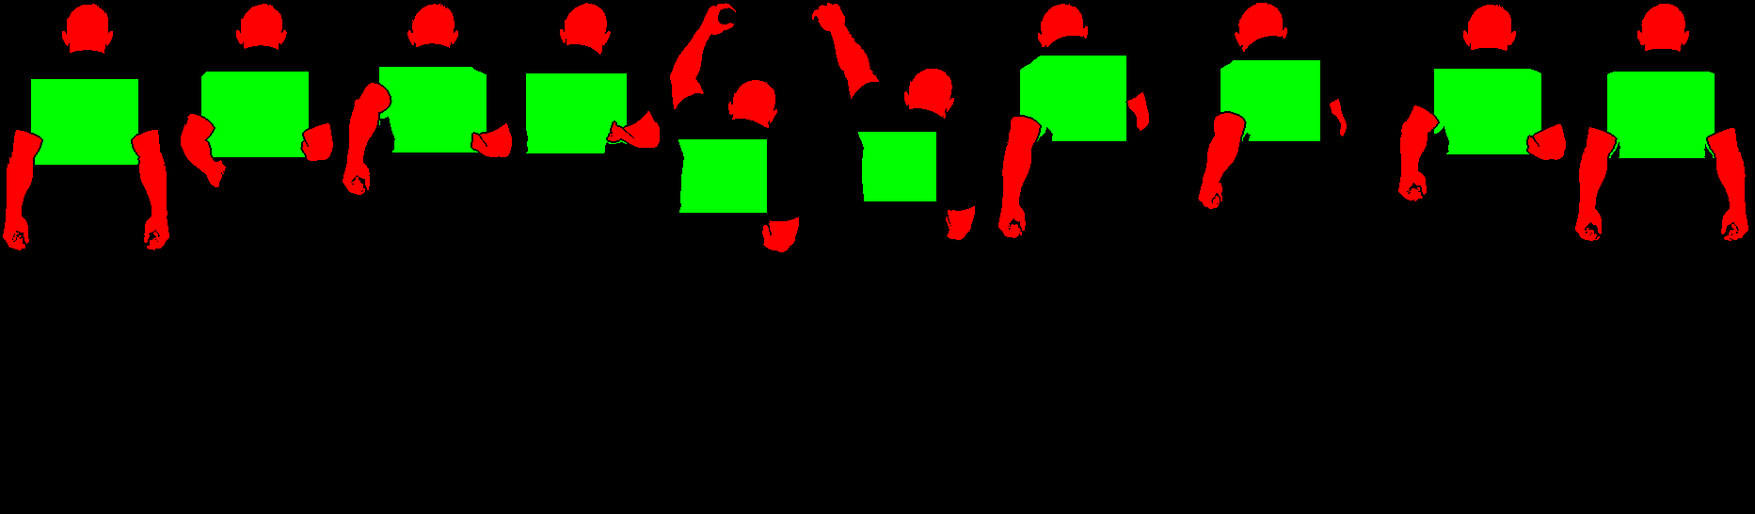
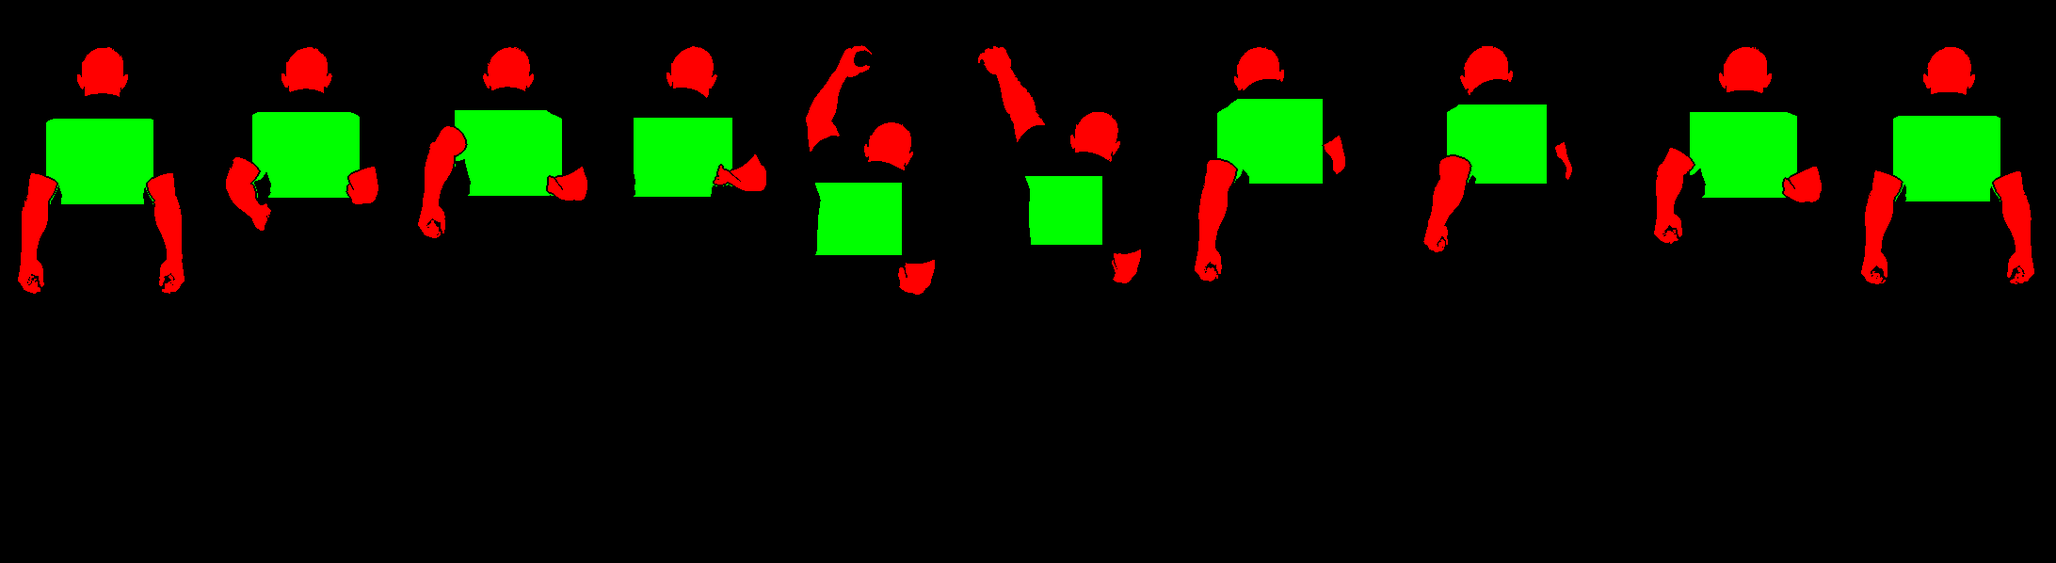
Pink Royals bowlers from behind: hair back on (the Thunder hairstyles carried onto the Royals poses), softer edges from the transparent sheet
The Royals sheet is the Thunder back sheet's poses redrawn in their kit, so each Thunder hair layer is scaled and shifted onto
the matching pose's head (ALIGN in tools/build_royals_back.py, head areas overlap 88-99%); every pose has room round it for
hair that stands up or hangs. The source is now the transparent version of the sheet. Test extended for the hair layers.

Claude-Session: https://claude.ai/code/session_01NK7tbrKg5PdA6fuyEUPXLd

Changed region(s): [[0.0, 0.0, 0.6531, 0.5293], [0.6842, 0.0, 0.9952, 0.4982]]

diff --git a/js/kitsheets.js b/js/kitsheets.js
@@ -2,4 +2,4 @@
 // [x, y, w, h, feet x, feet y] in sheet order; place: the crest (front: [x, y, size, squash x,
 // squash y, tilt]) or the name-and-number print (back: [x, y, width, squash x, squash y, tilt,
 // name dx, dy, number dx, dy]) per frame; shading references for the repaint.
-export const KIT_SHEETS = {"front":{"frames":[[4,4,227,609,115.7,602],[235,4,204,603,108.5,596],[443,4,232,595,100.6,588],[679,4,181,601,90.4,594],[4,617,184,670,98.7,663],[192,617,204,657,107.8,650],[400,617,234,531,161.4,524],[638,617,200,532,104.9,525],[4,1291,201,557,90.7,550],[209,1291,216,579,105.9,572]],"place":[[153,167,36,1,1,0],[377,154,35,1,1,0],[591,154,35,1,1,0],[795,159,32,0.9,1,0],[142,863,31,0.95,1,5],[363,868,31,0.95,1,5],[549,761,34,1,0.85,0],[754,762,31,0.95,0.85,-5],[148,1439,35,1,1,0],[359,1454,36,1,1,0]],"refPx":580,"suit":[0.0376,0.2954,0.587],"trim":[0.5314,0.8456,0.9029],"skin":0.7306,"tones":[0.2955,0.2955,0.8423],"hair":{"beard_full":0.2269,"beard_goatee":0.1998,"beard_long":0.1906,"bun":0.2773,"buzz":0.2963,"cap":0.2815,"curly":0.2799,"dreads":0.2727,"long":0.2593,"messy":0.2999,"part":0.3383,"ponytail":0.2813,"spiky":0.2762},"size":[1024,1874]},"back":{"frames":[[4,4,223,593,111.2,586],[231,4,203,585,111.9,578],[438,4,226,585,125.1,578],[668,4,184,572,61.0,565],[4,601,172,628,61.9,621],[180,601,213,636,106.9,629],[397,601,240,538,146.8,531],[641,601,234,534,104.0,527],[4,1241,213,572,115.0,565],[221,1241,215,586,107.6,579]],"place":[[116.6,158.1,88.0,1.0,1.0,0.4,0,0,0,0],[343.2,149.0,88.0,1.0,1.0,0.8,0,0,0,0],[558.0,148.9,88.0,1.0,1.0,0.0,0,0,0,0],[738,149.2,84.5,0.88,1.0,2,-4,0,-2,0],[95.9,814.9,81.0,0.85,0.95,15.1,0,0,0,0],[306.5,801.6,81.0,0.85,0.95,10.9,0,0,0,0],[502,714.2,86.2,1.0,0.75,-6,0,0,0,0],[741,714.7,86.2,1.0,0.75,-6,0,0,0,0],[117.6,1385.2,88.0,1.0,1.0,0.4,0,0,0,0],[331.2,1393.8,89.8,1.0,1.0,0.8,0,0,0,0]],"refPx":563,"suit":[0.032,0.3087,0.5514],"trim":[0.5231,0.8489,0.9123],"skin":0.7332,"tones":[0.3087,0.3087,0.8455],"hair":{"bun":0.2553,"buzz":0.2918,"cap":0.2709,"curly":0.2702,"dreads":0.2718,"long":0.2647,"messy":0.2757,"part":0.2824,"ponytail":0.2667,"spiky":0.2812},"size":[1024,1831]},"spin-front":{"frames":[[4,4,182,471,90.8,464],[190,4,175,474,103.6,467],[369,4,172,473,91.2,466],[545,4,173,483,87.0,476],[722,4,165,515,62.2,508],[4,523,164,565,80.0,558],[172,523,152,564,71.3,544],[328,523,165,547,53.2,528],[497,523,255,478,85.7,461],[756,523,173,413,62.2,400],[4,1092,264,385,95.9,378],[272,1092,180,405,108.1,398],[456,1092,144,425,76.3,418],[604,1092,179,431,74.7,424],[787,1092,192,438,94.7,431]],"place":[[133,134,26,1,1,0],[324,133,24,1,1,0],[503,130,24,1,1,0],[663,127,24,1,1,0],[848,180,24,1,1,0],[145,711,22,0.9,1,0],[268,717,21,0.9,1,0],[456,715,21,0.9,1,0],[646,705,20,0.9,0.9,10],[872,632,20,0.9,0.85,0],[118,1191,19,0.9,0.85,0],[368,1192,21,1,0.9,0],[524,1199,22,1,0.95,0],[728,1206,26,1,1,0],[918,1204,26,1,1,0]],"refPx":441,"suit":[0.0299,0.3355,0.4715],"trim":[0.548,0.8593,0.9122],"skin":0.7273,"tones":[0.341,0.154,0.8608],"hair":{"beard_full":0.1972,"beard_goatee":0.2001,"beard_long":0.2064,"bun":0.2433,"buzz":0.241,"cap":0.2898,"curly":0.2653,"dreads":0.2535,"long":0.2468,"messy":0.2721,"part":0.2843,"ponytail":0.2781,"spiky":0.2609},"size":[1024,1534]},"spin-back":{"frames":[[4,4,205,533,100.3,526],[213,4,201,526,110.7,519],[418,4,214,510,122.2,503],[636,4,168,520,54.4,513],[808,4,157,568,64.3,561],[4,576,174,536,56.4,529],[182,576,168,528,67.2,521],[354,576,165,520,59.7,498],[523,576,204,489,64.8,467],[731,576,195,427,99.9,420],[4,1116,270,378,98.4,371],[278,1116,189,392,97.5,385],[471,1116,207,396,98.1,389],[682,1116,185,397,98.2,390],[4,1517,193,401,95.6,394]],"place":[[110,150,72.0,1,1,0,0,0,0,0],[326,138,72.0,1,1,0,0,0,0,0],[539,138,72.0,0.95,1,0,0,0,0,0],[711,141,72.0,0.95,1,11,0,0,0,0],[894,208,72.0,0.95,1,5,0,0,0,0],[100,760,72.0,0.95,1,10,0,0,0,0],[266,753,72.0,0.95,1,10,0,0,0,0],[451,742,72.0,0.95,0.95,18,0,0,0,0],[637,718,72.0,0.95,0.8,20,0,0,0,0],[853,677,72.0,0.95,0.8,12,0,0,0,0],[115,1188,72.0,1,0.7,-6,0,0,0,0],[362,1201,72.0,1,0.75,-10,0,0,0,0],[558,1210,72.0,1,0.85,-6,0,0,0,0],[773,1218,72.0,1,1,0,0,0,0,0],[104,1643,72.0,1,1,0,0,0,0,0]],"refPx":502,"suit":[0.0255,0.3304,0.4621],"trim":[0.5425,0.8472,0.9129],"skin":0.735,"tones":[0.3359,0.1507,0.8497],"hair":{"bun":0.2768,"buzz":0.2522,"cap":0.3009,"curly":0.2524,"dreads":0.3474,"long":0.2919,"messy":0.2526,"part":0.2321,"ponytail":0.2864,"spiky":0.2346},"size":[1024,1922]},"bat-back":{"frames":[[4,4,248,534,127.4,527],[256,4,291,536,114.4,529],[551,4,247,535,126.7,528],[802,4,283,538,117.1,531],[1089,4,237,534,113.5,527],[1330,4,310,635,102.2,628],[4,643,438,523,123.2,516],[446,643,394,523,242.9,516],[844,643,398,524,207.5,517],[1246,643,243,468,91.2,461],[1493,643,229,458,81.5,451],[1726,643,197,456,73.9,449],[4,1171,213,517,108.2,510],[221,1171,264,515,121.3,508],[489,1171,381,501,205.5,494],[874,1171,329,471,80.2,464],[1207,1171,201,510,95.2,503],[1412,1171,161,645,75.2,638],[1577,1171,302,505,119.4,498],[4,1820,340,405,92.8,398],[348,1820,373,419,82.2,412],[725,1820,235,523,91.4,516],[964,1820,195,665,107.2,658],[1163,1820,336,523,170.4,516],[1503,1820,388,542,201.0,535],[4,2489,364,523,108.1,516]],"place":[[110.5,145,87.2,1,1,16.3,0,0,0,0],[366.5,144,89.6,1,1,21.6,0,0,0,0],[660.0,146,86.4,1,1,17.1,0,0,0,0],[905.0,148,87.2,1,1,18.6,0,0,0,0],[1199.0,145,88.0,1,1,19.2,0,0,0,0],[1473.0,237,91.2,1,1,14.7,0,0,0,0],[157.0,762,93.6,1,1,3.2,0,0,0,0],[761.5,781,94.4,1,1,10.1,0,0,0,0],[1171.0,781,90.4,1,1,9.6,0,0,0,0],[1355.0,760,84.0,1,1,1.5,0,0,0,0],[1592.0,760,91.2,1,1,-0.9,0,0,0,0],[1815.0,767,96.0,1,1,3.4,0,0,0,0],[122.5,1293,85.6,1,1,16.8,0,0,0,0],[324.5,1303,96.8,1,1,4.1,0,0,0,0],[597.0,1301,95.2,1,1,8.8,0,0,0,0],[972.5,1302,96.0,1,1,7.3,0,0,0,0],[1324.5,1307,92.0,1,1,6.0,0,0,0,0],[1483.5,1450,92.0,1,1,1.6,0,0,0,0],[1760.5,1408,87.2,1,1,6.1,0,0,0,0],[114.0,1958,103.2,1,1,6.5,0,0,0,0],[504.5,1956,94.4,1,1,-0.9,0,0,0,0],[824.5,1941,94.4,1,1,7.8,0,0,0,0],[1083.5,2081,88.0,1,1,9.2,0,0,0,0],[1261.5,1955,98.4,1,1,11.6,0,0,0,0],[1822.0,1972,83.2,1,1,11.6,0,0,0,0],[88.0,2611,92.0,1,1,0.4,0,0,0,0]],"refPx":522,"suit":[0.0269,0.3529,0.5925],"trim":[0.5451,0.8592,0.9209],"skin":0.6414,"tones":[0.3586,0.2,0.8608],"hair":{},"size":[2048,3016]},"field":{"frames":[[4,4,425,453,214.6,446],[433,4,376,459,180.8,452],[813,4,407,455,200.5,448],[1224,4,294,543,132.5,536],[1522,4,266,555,119.8,548],[4,563,282,545,146.0,538],[290,563,323,540,153.3,533],[617,563,416,478,255.7,471],[1037,563,399,471,239.2,464],[1440,563,416,479,226.6,472],[4,1112,498,472,240.3,465],[506,1112,334,461,194.5,454],[844,1112,389,467,201.6,460],[1237,1112,290,468,134.9,461],[1531,1112,237,468,118.4,461],[4,1588,331,343,227.7,336],[339,1588,473,278,360.6,271],[816,1588,480,172,199.7,165],[1300,1588,337,172,238.3,165],[4,1935,444,498,209.6,491],[452,1935,293,588,174.3,581],[749,1935,424,503,212.8,496],[1177,1935,325,396,172.6,389],[1506,1935,354,418,177.7,411],[4,2527,358,410,163.6,403],[366,2527,433,269,300.7,262],[803,2527,313,384,165.7,377],[1120,2527,314,393,165.6,386],[1438,2527,418,382,217.0,375],[4,2941,455,291,300.0,284],[463,2941,279,574,142.6,567],[746,2941,283,525,142.6,518],[1033,2941,330,573,155.7,566],[1367,2941,288,573,148.0,566],[1659,2941,234,574,118.0,567],[4,3519,232,571,109.8,564],[240,3519,219,572,103.9,565],[463,3519,236,568,117.4,561],[703,3519,228,575,111.3,568],[935,3519,240,570,118.5,563],[1179,3519,238,570,119.8,563],[1421,3519,223,572,107.1,565]],"place":[[10,10,0,1,1,0,0,0,0,0],[439,10,0,1,1,0,0,0,0,0],[1017.0,139,100.8,1,1,1.9,0,0,0,0],[1394.5,134,101.6,1,1,22.4,0,0,0,0],[1652.0,138,104.0,1,1,11.0,0,0,0,0],[174.0,696,97.6,1,1,7.0,0,0,0,0],[458.5,691,98.4,1,1,11.3,0,0,0,0],[623,569,0,1,1,0,0,0,0,0],[1043,569,0,1,1,0,0,0,0,0],[1446,569,0,1,1,0,0,0,0,0],[10,1118,0,1,1,0,0,0,0,0],[512,1118,0,1,1,0,0,0,0,0],[850,1117,0,1,1,0,0,0,0,0],[1405.0,1231,90.4,1,1,15.0,0,0,0,0],[1673.0,1223,85.6,1,1,3.9,0,0,0,0],[10,1594,0,1,1,0,0,0,0,0],[345,1594,0,1,1,0,0,0,0,0],[822,1594,0,1,1,0,0,0,0,0],[1306,1594,0,1,1,0,0,0,0,0],[10,1941,0,1,1,0,0,0,0,0],[458,1941,0,1,1,0,0,0,0,0],[755,1941,0,1,1,0,0,0,0,0],[1183,1941,0,1,1,0,0,0,0,0],[1512,1941,0,1,1,0,0,0,0,0],[10,2533,0,1,1,0,0,0,0,0],[372,2533,0,1,1,0,0,0,0,0],[973.5,2643,76.8,1,1,1.8,0,0,0,0],[1296.5,2644,77.6,1,1,8.0,0,0,0,0],[1690.0,2629,61.6,1,1,16.7,0,0,0,0],[10,2947,0,1,1,0,0,0,0,0],[469,2947,0,1,1,0,0,0,0,0],[752,2947,0,1,1,0,0,0,0,0],[1039,2947,0,1,1,0,0,0,0,0],[1373,2947,0,1,1,0,0,0,0,0],[1665,2947,0,1,1,0,0,0,0,0],[10,3525,0,1,1,0,0,0,0,0],[246,3525,0,1,1,0,0,0,0,0],[469,3525,0,1,1,0,0,0,0,0],[709,3525,0,1,1,0,0,0,0,0],[941,3525,0,1,1,0,0,0,0,0],[1185,3525,0,1,1,0,0,0,0,0],[1427,3525,0,1,1,0,0,0,0,0]],"refPx":441,"suit":[0.0644,0.3368,0.6113],"trim":[0.5563,0.8516,0.9209],"skin":0.7707,"tones":[0.3422,0.2038,0.8539],"hair":{},"size":[2048,4098]},"royals-back":{"frames":[[0,0,185,490,92.5,489],[189,0,168,481,93.5,480],[361,0,186,482,104.5,481],[551,0,153,472,53.0,471],[708,0,148,544,54.5,543],[860,0,194,546,96.5,545],[1058,0,208,459,128.0,458],[1270,0,209,466,90.5,465],[1483,0,184,455,98.0,454],[1671,0,190,457,92.0,456]],"place":[[90.3,129.7,76.0,1,1,0.0,0,0,0,0],[271.7,122.1,76.0,1,1,0.0,0,0,0,0],[460.7,116.6,76.0,1,1,0.0,0,0,0,0],[613.0,121.1,71.0,1,1,6.0,0,0,0,0],[766.7,187.4,65.0,1,1,-10.0,0,0,0,0],[949.6,177.5,61.5,1,1,-14.0,0,0,0,0],[1140.9,104.8,75.5,1,1,10.0,0,0,0,0],[1350.7,107.6,71.0,1,1,12.0,0,0,0,0],[1581.4,119.4,76.0,1,1,0.0,0,0,0,0],[1765.9,122.6,76.0,1,1,0.0,0,0,0,0]],"refPx":490,"suit":[0,0,0],"trim":[0,0,0],"skin":0.7271,"hair":{},"size":[1865,546]}};
+export const KIT_SHEETS = {"front":{"frames":[[4,4,227,609,115.7,602],[235,4,204,603,108.5,596],[443,4,232,595,100.6,588],[679,4,181,601,90.4,594],[4,617,184,670,98.7,663],[192,617,204,657,107.8,650],[400,617,234,531,161.4,524],[638,617,200,532,104.9,525],[4,1291,201,557,90.7,550],[209,1291,216,579,105.9,572]],"place":[[153,167,36,1,1,0],[377,154,35,1,1,0],[591,154,35,1,1,0],[795,159,32,0.9,1,0],[142,863,31,0.95,1,5],[363,868,31,0.95,1,5],[549,761,34,1,0.85,0],[754,762,31,0.95,0.85,-5],[148,1439,35,1,1,0],[359,1454,36,1,1,0]],"refPx":580,"suit":[0.0376,0.2954,0.587],"trim":[0.5314,0.8456,0.9029],"skin":0.7306,"tones":[0.2955,0.2955,0.8423],"hair":{"beard_full":0.2269,"beard_goatee":0.1998,"beard_long":0.1906,"bun":0.2773,"buzz":0.2963,"cap":0.2815,"curly":0.2799,"dreads":0.2727,"long":0.2593,"messy":0.2999,"part":0.3383,"ponytail":0.2813,"spiky":0.2762},"size":[1024,1874]},"back":{"frames":[[4,4,223,593,111.2,586],[231,4,203,585,111.9,578],[438,4,226,585,125.1,578],[668,4,184,572,61.0,565],[4,601,172,628,61.9,621],[180,601,213,636,106.9,629],[397,601,240,538,146.8,531],[641,601,234,534,104.0,527],[4,1241,213,572,115.0,565],[221,1241,215,586,107.6,579]],"place":[[116.6,158.1,88.0,1.0,1.0,0.4,0,0,0,0],[343.2,149.0,88.0,1.0,1.0,0.8,0,0,0,0],[558.0,148.9,88.0,1.0,1.0,0.0,0,0,0,0],[738,149.2,84.5,0.88,1.0,2,-4,0,-2,0],[95.9,814.9,81.0,0.85,0.95,15.1,0,0,0,0],[306.5,801.6,81.0,0.85,0.95,10.9,0,0,0,0],[502,714.2,86.2,1.0,0.75,-6,0,0,0,0],[741,714.7,86.2,1.0,0.75,-6,0,0,0,0],[117.6,1385.2,88.0,1.0,1.0,0.4,0,0,0,0],[331.2,1393.8,89.8,1.0,1.0,0.8,0,0,0,0]],"refPx":563,"suit":[0.032,0.3087,0.5514],"trim":[0.5231,0.8489,0.9123],"skin":0.7332,"tones":[0.3087,0.3087,0.8455],"hair":{"bun":0.2553,"buzz":0.2918,"cap":0.2709,"curly":0.2702,"dreads":0.2718,"long":0.2647,"messy":0.2757,"part":0.2824,"ponytail":0.2667,"spiky":0.2812},"size":[1024,1831]},"spin-front":{"frames":[[4,4,182,471,90.8,464],[190,4,175,474,103.6,467],[369,4,172,473,91.2,466],[545,4,173,483,87.0,476],[722,4,165,515,62.2,508],[4,523,164,565,80.0,558],[172,523,152,564,71.3,544],[328,523,165,547,53.2,528],[497,523,255,478,85.7,461],[756,523,173,413,62.2,400],[4,1092,264,385,95.9,378],[272,1092,180,405,108.1,398],[456,1092,144,425,76.3,418],[604,1092,179,431,74.7,424],[787,1092,192,438,94.7,431]],"place":[[133,134,26,1,1,0],[324,133,24,1,1,0],[503,130,24,1,1,0],[663,127,24,1,1,0],[848,180,24,1,1,0],[145,711,22,0.9,1,0],[268,717,21,0.9,1,0],[456,715,21,0.9,1,0],[646,705,20,0.9,0.9,10],[872,632,20,0.9,0.85,0],[118,1191,19,0.9,0.85,0],[368,1192,21,1,0.9,0],[524,1199,22,1,0.95,0],[728,1206,26,1,1,0],[918,1204,26,1,1,0]],"refPx":441,"suit":[0.0299,0.3355,0.4715],"trim":[0.548,0.8593,0.9122],"skin":0.7273,"tones":[0.341,0.154,0.8608],"hair":{"beard_full":0.1972,"beard_goatee":0.2001,"beard_long":0.2064,"bun":0.2433,"buzz":0.241,"cap":0.2898,"curly":0.2653,"dreads":0.2535,"long":0.2468,"messy":0.2721,"part":0.2843,"ponytail":0.2781,"spiky":0.2609},"size":[1024,1534]},"spin-back":{"frames":[[4,4,205,533,100.3,526],[213,4,201,526,110.7,519],[418,4,214,510,122.2,503],[636,4,168,520,54.4,513],[808,4,157,568,64.3,561],[4,576,174,536,56.4,529],[182,576,168,528,67.2,521],[354,576,165,520,59.7,498],[523,576,204,489,64.8,467],[731,576,195,427,99.9,420],[4,1116,270,378,98.4,371],[278,1116,189,392,97.5,385],[471,1116,207,396,98.1,389],[682,1116,185,397,98.2,390],[4,1517,193,401,95.6,394]],"place":[[110,150,72.0,1,1,0,0,0,0,0],[326,138,72.0,1,1,0,0,0,0,0],[539,138,72.0,0.95,1,0,0,0,0,0],[711,141,72.0,0.95,1,11,0,0,0,0],[894,208,72.0,0.95,1,5,0,0,0,0],[100,760,72.0,0.95,1,10,0,0,0,0],[266,753,72.0,0.95,1,10,0,0,0,0],[451,742,72.0,0.95,0.95,18,0,0,0,0],[637,718,72.0,0.95,0.8,20,0,0,0,0],[853,677,72.0,0.95,0.8,12,0,0,0,0],[115,1188,72.0,1,0.7,-6,0,0,0,0],[362,1201,72.0,1,0.75,-10,0,0,0,0],[558,1210,72.0,1,0.85,-6,0,0,0,0],[773,1218,72.0,1,1,0,0,0,0,0],[104,1643,72.0,1,1,0,0,0,0,0]],"refPx":502,"suit":[0.0255,0.3304,0.4621],"trim":[0.5425,0.8472,0.9129],"skin":0.735,"tones":[0.3359,0.1507,0.8497],"hair":{"bun":0.2768,"buzz":0.2522,"cap":0.3009,"curly":0.2524,"dreads":0.3474,"long":0.2919,"messy":0.2526,"part":0.2321,"ponytail":0.2864,"spiky":0.2346},"size":[1024,1922]},"bat-back":{"frames":[[4,4,248,534,127.4,527],[256,4,291,536,114.4,529],[551,4,247,535,126.7,528],[802,4,283,538,117.1,531],[1089,4,237,534,113.5,527],[1330,4,310,635,102.2,628],[4,643,438,523,123.2,516],[446,643,394,523,242.9,516],[844,643,398,524,207.5,517],[1246,643,243,468,91.2,461],[1493,643,229,458,81.5,451],[1726,643,197,456,73.9,449],[4,1171,213,517,108.2,510],[221,1171,264,515,121.3,508],[489,1171,381,501,205.5,494],[874,1171,329,471,80.2,464],[1207,1171,201,510,95.2,503],[1412,1171,161,645,75.2,638],[1577,1171,302,505,119.4,498],[4,1820,340,405,92.8,398],[348,1820,373,419,82.2,412],[725,1820,235,523,91.4,516],[964,1820,195,665,107.2,658],[1163,1820,336,523,170.4,516],[1503,1820,388,542,201.0,535],[4,2489,364,523,108.1,516]],"place":[[110.5,145,87.2,1,1,16.3,0,0,0,0],[366.5,144,89.6,1,1,21.6,0,0,0,0],[660.0,146,86.4,1,1,17.1,0,0,0,0],[905.0,148,87.2,1,1,18.6,0,0,0,0],[1199.0,145,88.0,1,1,19.2,0,0,0,0],[1473.0,237,91.2,1,1,14.7,0,0,0,0],[157.0,762,93.6,1,1,3.2,0,0,0,0],[761.5,781,94.4,1,1,10.1,0,0,0,0],[1171.0,781,90.4,1,1,9.6,0,0,0,0],[1355.0,760,84.0,1,1,1.5,0,0,0,0],[1592.0,760,91.2,1,1,-0.9,0,0,0,0],[1815.0,767,96.0,1,1,3.4,0,0,0,0],[122.5,1293,85.6,1,1,16.8,0,0,0,0],[324.5,1303,96.8,1,1,4.1,0,0,0,0],[597.0,1301,95.2,1,1,8.8,0,0,0,0],[972.5,1302,96.0,1,1,7.3,0,0,0,0],[1324.5,1307,92.0,1,1,6.0,0,0,0,0],[1483.5,1450,92.0,1,1,1.6,0,0,0,0],[1760.5,1408,87.2,1,1,6.1,0,0,0,0],[114.0,1958,103.2,1,1,6.5,0,0,0,0],[504.5,1956,94.4,1,1,-0.9,0,0,0,0],[824.5,1941,94.4,1,1,7.8,0,0,0,0],[1083.5,2081,88.0,1,1,9.2,0,0,0,0],[1261.5,1955,98.4,1,1,11.6,0,0,0,0],[1822.0,1972,83.2,1,1,11.6,0,0,0,0],[88.0,2611,92.0,1,1,0.4,0,0,0,0]],"refPx":522,"suit":[0.0269,0.3529,0.5925],"trim":[0.5451,0.8592,0.9209],"skin":0.6414,"tones":[0.3586,0.2,0.8608],"hair":{},"size":[2048,3016]},"field":{"frames":[[4,4,425,453,214.6,446],[433,4,376,459,180.8,452],[813,4,407,455,200.5,448],[1224,4,294,543,132.5,536],[1522,4,266,555,119.8,548],[4,563,282,545,146.0,538],[290,563,323,540,153.3,533],[617,563,416,478,255.7,471],[1037,563,399,471,239.2,464],[1440,563,416,479,226.6,472],[4,1112,498,472,240.3,465],[506,1112,334,461,194.5,454],[844,1112,389,467,201.6,460],[1237,1112,290,468,134.9,461],[1531,1112,237,468,118.4,461],[4,1588,331,343,227.7,336],[339,1588,473,278,360.6,271],[816,1588,480,172,199.7,165],[1300,1588,337,172,238.3,165],[4,1935,444,498,209.6,491],[452,1935,293,588,174.3,581],[749,1935,424,503,212.8,496],[1177,1935,325,396,172.6,389],[1506,1935,354,418,177.7,411],[4,2527,358,410,163.6,403],[366,2527,433,269,300.7,262],[803,2527,313,384,165.7,377],[1120,2527,314,393,165.6,386],[1438,2527,418,382,217.0,375],[4,2941,455,291,300.0,284],[463,2941,279,574,142.6,567],[746,2941,283,525,142.6,518],[1033,2941,330,573,155.7,566],[1367,2941,288,573,148.0,566],[1659,2941,234,574,118.0,567],[4,3519,232,571,109.8,564],[240,3519,219,572,103.9,565],[463,3519,236,568,117.4,561],[703,3519,228,575,111.3,568],[935,3519,240,570,118.5,563],[1179,3519,238,570,119.8,563],[1421,3519,223,572,107.1,565]],"place":[[10,10,0,1,1,0,0,0,0,0],[439,10,0,1,1,0,0,0,0,0],[1017.0,139,100.8,1,1,1.9,0,0,0,0],[1394.5,134,101.6,1,1,22.4,0,0,0,0],[1652.0,138,104.0,1,1,11.0,0,0,0,0],[174.0,696,97.6,1,1,7.0,0,0,0,0],[458.5,691,98.4,1,1,11.3,0,0,0,0],[623,569,0,1,1,0,0,0,0,0],[1043,569,0,1,1,0,0,0,0,0],[1446,569,0,1,1,0,0,0,0,0],[10,1118,0,1,1,0,0,0,0,0],[512,1118,0,1,1,0,0,0,0,0],[850,1117,0,1,1,0,0,0,0,0],[1405.0,1231,90.4,1,1,15.0,0,0,0,0],[1673.0,1223,85.6,1,1,3.9,0,0,0,0],[10,1594,0,1,1,0,0,0,0,0],[345,1594,0,1,1,0,0,0,0,0],[822,1594,0,1,1,0,0,0,0,0],[1306,1594,0,1,1,0,0,0,0,0],[10,1941,0,1,1,0,0,0,0,0],[458,1941,0,1,1,0,0,0,0,0],[755,1941,0,1,1,0,0,0,0,0],[1183,1941,0,1,1,0,0,0,0,0],[1512,1941,0,1,1,0,0,0,0,0],[10,2533,0,1,1,0,0,0,0,0],[372,2533,0,1,1,0,0,0,0,0],[973.5,2643,76.8,1,1,1.8,0,0,0,0],[1296.5,2644,77.6,1,1,8.0,0,0,0,0],[1690.0,2629,61.6,1,1,16.7,0,0,0,0],[10,2947,0,1,1,0,0,0,0,0],[469,2947,0,1,1,0,0,0,0,0],[752,2947,0,1,1,0,0,0,0,0],[1039,2947,0,1,1,0,0,0,0,0],[1373,2947,0,1,1,0,0,0,0,0],[1665,2947,0,1,1,0,0,0,0,0],[10,3525,0,1,1,0,0,0,0,0],[246,3525,0,1,1,0,0,0,0,0],[469,3525,0,1,1,0,0,0,0,0],[709,3525,0,1,1,0,0,0,0,0],[941,3525,0,1,1,0,0,0,0,0],[1185,3525,0,1,1,0,0,0,0,0],[1427,3525,0,1,1,0,0,0,0,0]],"refPx":441,"suit":[0.0644,0.3368,0.6113],"trim":[0.5563,0.8516,0.9209],"skin":0.7707,"tones":[0.3422,0.2038,0.8539],"hair":{},"size":[2048,4098]},"royals-back":{"frames":[[0,0,217,542,108.0,534],[221,0,200,533,109.5,525],[425,0,219,534,120.0,526],[648,0,185,523,67.5,515],[837,0,179,595,69.5,587],[1020,0,226,598,112.5,591],[1250,0,240,511,143.5,504],[1494,0,240,518,105.5,510],[1738,0,216,506,114.0,499],[1958,0,222,509,108.0,502]],"place":[[107.0,172.2,76.0,1,1,0.0,0,0,0,0],[326.0,165.0,76.0,1,1,0.0,0,0,0,0],[541.0,162.6,76.0,1,1,0.0,0,0,0,0],[726.0,167.4,70.0,1,1,6.0,0,0,0,0],[910.9,232.8,64.0,1,1,-10.0,0,0,0,0],[1125.9,223.8,61.0,1,1,-14.0,0,0,0,0],[1349.4,150.7,74.5,1,1,10.0,0,0,0,0],[1590.7,153.4,70.5,1,1,12.0,0,0,0,0],[1852.6,164.6,76.0,1,1,0.0,0,0,0,0],[2068.7,169.0,76.0,1,1,0.0,0,0,0,0]],"refPx":488,"suit":[0,0,0],"trim":[0,0,0],"skin":0.7271,"hair":{"bun":0.2553,"buzz":0.2918,"cap":0.2709,"curly":0.2702,"dreads":0.2718,"long":0.2647,"messy":0.2757,"part":0.2824,"ponytail":0.2667,"spiky":0.2812},"size":[2184,598]}};

diff --git a/tests/royalskit.test.js b/tests/royalskit.test.js
@@ -27,7 +27,10 @@ test('the Pink Royals back view: 10 poses inside his sheet, the mask the same si
     const [fx, fy, fw, fh] = m.frames[i];
     assert.ok(x > fx && x < fx + fw && y > fy && y < fy + fh * 0.6 && w > 40 && w < 100, `pose ${i}: the print sits on the back`);
   });
-  assert.ok(m.skin > 0.2 && m.skin < 0.95 && !m.tones && !m.hair.part, 'plain (no recolour), a skin reference, no hair layers');
+  assert.ok(m.skin > 0.2 && m.skin < 0.95 && !m.tones, 'plain (no recolour), with a skin reference');
+  // his hairstyles are the Thunder ones carried over: the same styles, a layer file for each, the size of the sheet
+  assert.deepEqual(Object.keys(m.hair).sort(), Object.keys(KIT_SHEETS.back.hair).sort());
+  for (const st of Object.keys(m.hair)) assert.deepEqual(webpSize(read(`img/kit/royals-back-hair-${st}.webp`)), [W, H], `${st} hair layer`);
 });
 
 test('Royals bowlers from behind draw from their own kit view; every other club still from the Thunder sheet', () => {

diff --git a/tools/build_royals_back.py b/tools/build_royals_back.py
@@ -1,13 +1,19 @@
 #!/usr/bin/env python3
 """The Pink Royals' own bowler from behind (their kit is drawn, not recoloured from Thunder's): img/kit/royals-back.webp,
-its mask img/kit/royals-back-mask.png, and its entry in js/kitsheets.js, from tools/kit/src/royals-back.png (10 poses on
-white, in the same order as the pace bowler's back sheet: stance, three run-up poses, gather, arm up x2, follow-through x2,
-finish; the kit reference sheet is tools/kit/src/royals-kit-reference.png).
+its mask img/kit/royals-back-mask.png, its hairstyles img/kit/royals-back-hair-<style>.webp and its entry in js/kitsheets.js,
+from tools/kit/src/royals-back.png (10 poses on a transparent background, in the same order as the pace bowler's back sheet:
+stance, three run-up poses, gather, arm up x2, follow-through x2, finish; the kit reference sheet is
+tools/kit/src/royals-kit-reference.png).
 
-The game then treats it as one more kit view (js/kitsprite.js, js/bowlsprite.js): the player's own skin tone painted over
-the skin (the mask's R channel), and his surname and number printed on the back (the G channel says where a print may go,
-meta.place per pose where it sits). The kit itself is left as drawn (the mask's B channel is empty), so no recolour. He is
-bald, as drawn: hair layers would need their own drawing for this sheet.
+The game then treats it as one more kit view (js/kitsprite.js, js/bowlsprite.js): the player's own skin tone painted over the
+skin (the mask's R channel), his hairstyle over the head, and his surname and number printed on the back (the G channel says
+where a print may go, meta.place per pose where it sits). The kit itself is left as drawn (the mask's B channel is empty), so no
+recolour.
+
+The poses are the same drawings as the Thunder back sheet (img/kit/back.webp), smaller, so the Thunder hairstyle layers
+(img/kit/back-hair-<style>.webp) are carried over: each pose's layer is scaled and shifted to sit on the Royals head (ALIGN
+below, found by matching the two outlines' head areas: they overlap 88 to 99%). Each pose has empty room round it for hair that
+stands up or hangs.
 
 usage (repo root): python3 tools/build_royals_back.py       needs numpy, scipy and Pillow
 """
@@ -20,35 +26,30 @@ from scipy import ndimage as ndi
 
 SRC = 'tools/kit/src/royals-back.png'
 OUT = 'img/kit/royals-back'
-BELT_BELOW_NECK = 118   # (px under the neck where the waistband is, on a standing pose: the print stays above it)
-
-# back, over the crown); filled by tools/build_royals_back.py's auto placement, then trimmed by eye here
+PAD_T, PAD_S, PAD_B = 46, 16, 6   # room round each pose (hair that stands up, hangs, or is wider than the head)
 LIFT = 0.12            # (of the print's width: the block rides above the crown's middle, so the name clears its points)
 TILT = {3: 6, 4: -10, 5: -14, 6: 10, 7: 12}   # the lean of the torso in the poses that bend
+# per pose: scale and shift (x, y) that put the Thunder pose's hair onto this pose, in this pose's own box before the room is added
+ALIGN = [(0.88, -5, -21), (0.88, -7, -22), (0.88, -8, -21), (0.90, -7, -24), (0.87, -8, -8),
+         (0.91, -2, -9), (0.93, -8, -21), (0.97, -3, -23), (0.94, -8, -23), (0.92, -5, -24)]
 
 
-def white_bg_cut(im):
-    """the 10 poses with the white taken away from the edges in (the figures have white boots and stripes, which are kept)"""
-    a = np.array(im.convert('RGB')).astype(int)
-    white = (a.min(2) >= 238) & ((a.max(2) - a.min(2)) < 14)
-    lab, _ = ndi.label(white)
-    edge = set(np.unique(np.concatenate([lab[0], lab[-1], lab[:, 0], lab[:, -1]]))) - {0}
-    fg = ndi.binary_fill_holes(~np.isin(lab, list(edge)))
-    # two poses touch (the second row's second and the last row's second): a one-row gap between them
+def cut_poses(im):
+    """the 10 poses of the transparent sheet (two touch: a one-row gap between them), each only its own pixels"""
+    a = np.array(im.convert('RGBA'))
+    fg = a[..., 3] > 40
     gap = fg.copy()
     col = fg[1040:1110, 181:447].mean(1)
     gap[1040 + int(np.argmin(col)), 181:447] = False
-    alpha = np.clip(ndi.gaussian_filter(fg.astype(np.float32), 0.7) * 1.5 - 0.1, 0, 1)
-    rgba = np.dstack([a.astype(np.uint8), (alpha * 255).astype(np.uint8)])
-    lab2, n = ndi.label(gap)
-    sl, sizes = ndi.find_objects(lab2), ndi.sum(gap, lab2, range(1, n + 1))
+    lab, n = ndi.label(gap)
+    sl, sizes = ndi.find_objects(lab), ndi.sum(gap, lab, range(1, n + 1))
     poses = [(sl[i], i + 1) for i in range(n) if sizes[i] > 12000]
     assert len(poses) == 10, len(poses)
     poses.sort(key=lambda t: (0 if t[0][0].start < 515 else 1 if t[0][0].start < 1070 else 2, t[0][1].start))
     cells = []
     for s, i in poses:
-        sub = rgba[s].copy()
-        own = ndi.binary_dilation(lab2[s] == i, iterations=3) & fg[s]
+        sub = a[s].copy()
+        own = ndi.binary_dilation(lab[s] == i, iterations=3) & fg[s]
         sub[..., 3] = np.where(own, sub[..., 3], 0)
         cells.append(Image.fromarray(sub, 'RGBA'))
     return cells
@@ -71,65 +72,78 @@ def skin_mask(a):
 
 
 def main():
-    cells = white_bg_cut(Image.open(SRC))
-    W = sum(c.width + 4 for c in cells)
-    H = max(c.height for c in cells)
+    cells = cut_poses(Image.open(SRC))
+    raw = [(c.width, c.height) for c in cells]
+    cw = [w + 2 * PAD_S for w, _ in raw]
+    ch = [h + PAD_T + PAD_B for _, h in raw]
+    W, H = sum(w + 4 for w in cw), max(ch)
     atlas = Image.new('RGBA', (W, H), (0, 0, 0, 0))
     mask = np.zeros((H, W, 3), np.uint8)
-    frames, place, x = [], [], 0
+    frames, place, offs, x = [], [], [], 0
     lum = lambda p: p @ np.array([0.299, 0.587, 0.114])
     skin_lums = []
     for k, c in enumerate(cells):
-        atlas.paste(c, (x, 0))
-        a = np.array(c)
+        atlas.paste(c, (x + PAD_S, PAD_T))
+        offs.append(x)
+        box = Image.new('RGBA', (cw[k], ch[k]), (0, 0, 0, 0))
+        box.paste(c, (PAD_S, PAD_T))
+        a = np.array(box)
         al = a[..., 3] > 128
         sk = skin_mask(a)
         ys = np.where(al.any(1))[0]
-        yb = int(ys.max())
+        yb, ytop = int(ys.max()), int(ys.min())
         xs = np.where(al[max(0, yb - 20):yb + 1].any(0))[0]
-        frames.append([x, 0, c.width, c.height, round((xs.min() + xs.max()) / 2, 1), yb])
+        frames.append([x, 0, cw[k], ch[k], round((xs.min() + xs.max()) / 2, 1), yb])
         # the head is the topmost skin piece: where the neck ends is where the shirt starts
         lab, n = ndi.label(sk)
         top = min(range(1, n + 1), key=lambda i: np.nonzero(lab == i)[0].min())
-        head = lab == top
-        hy, hx = np.nonzero(head)
+        hy, hx = np.nonzero(lab == top)
         neck, cx = int(hy.max()), float(hx.mean())
         # the crown: the white of the shirt's back, close under the neck and near the head's middle line
         win = np.zeros_like(al)
         win[neck + 8:neck + 8 + 112, max(0, int(cx) - 70):int(cx) + 70] = True
-        white = win & al & (a[..., :3].min(2) > 222) & ~sk
-        wy, wx = np.nonzero(white)
+        wy, wx = np.nonzero(win & al & (a[..., :3].min(2) > 222) & ~sk)
         px, py = (float(wx.mean()), float(wy.mean())) if wy.size > 40 else (cx, neck + 60.0)
         # the shirt's width across that row, bare arms and the empty air left out
-        row = al[int(py)] & ~sk[int(py)]
-        cols = np.nonzero(row)[0]
+        cols = np.nonzero(al[int(py)] & ~sk[int(py)])[0]
         near = cols[(cols > px - 90) & (cols < px + 90)]
-        w = float(near.max() - near.min()) * 0.5 if near.size else 70.0
-        w0 = min(w, 76.0)
-        px0, py0, ang = px, py - LIFT * w0, float(TILT.get(k, 0))
-        place.append([round(px0 + x, 1), round(py0, 1), round(w0, 1), 1, 1, ang, 0, 0, 0, 0])
+        w0 = min(float(near.max() - near.min()) * 0.5 if near.size else 70.0, 76.0)
+        py0, ang = py - LIFT * w0, float(TILT.get(k, 0))
+        place.append([round(px + x, 1), round(py0, 1), round(w0, 1), 1, 1, ang, 0, 0, 0, 0])
         # the mask: R skin, G where a print may go (the shirt: not the skin, in a box round the block), B empty (no recolour)
-        m = mask[:, x:x + c.width]
-        m[:c.height, :, 0] = np.where(sk, 255, 0)[:c.height]
-        bx0, bx1, by0, by1 = int(px0 - w0 * 0.75), int(px0 + w0 * 0.75), int(py0 - w0 * 0.6), int(py0 + w0 * 0.6)
-        box = np.zeros(al.shape, bool)
-        box[max(0, by0):by1, max(0, bx0):bx1] = True
-        shirt = box & al & ~ndi.binary_dilation(sk, iterations=2)
-        m[:c.height, :, 1] = np.where(shirt, 255, 0)[:c.height]
+        m = mask[:ch[k], x:x + cw[k]]
+        m[..., 0] = np.where(sk, 255, 0)
+        bx0, bx1, by0, by1 = int(px - w0 * 0.75), int(px + w0 * 0.75), int(py0 - w0 * 0.6), int(py0 + w0 * 0.6)
+        bb = np.zeros(al.shape, bool)
+        bb[max(0, by0):by1, max(0, bx0):bx1] = True
+        m[..., 1] = np.where(bb & al & ~ndi.binary_dilation(sk, iterations=2), 255, 0)
         skin_lums.append(lum(a[..., :3][sk].astype(float)))
-        x += c.width + 4
+        x += cw[k] + 4
     atlas.save(OUT + '.webp', 'WEBP', quality=92, method=6)
     Image.fromarray(mask, 'RGB').save(OUT + '-mask.png', optimize=True)
-    stand = frames[0][5] - int(np.nonzero(np.array(cells[0])[..., 3] > 128)[0].min()) + 1
-    skin_ref = float(np.median(np.concatenate(skin_lums)) / 255)
-    meta = {'frames': frames, 'place': place, 'refPx': stand, 'suit': [0, 0, 0], 'trim': [0, 0, 0], 'skin': round(skin_ref, 4), 'hair': {}, 'size': [W, H]}
+    # the hairstyles: the Thunder layers, each pose scaled and shifted onto this pose's head
     src = open('js/kitsheets.js').read()
     sheets = json.loads(src[src.index('= ') + 2:src.rindex(';')])
-    sheets['royals-back'] = meta
+    back = sheets['back']
+    styles = sorted(back['hair'])
+    for st in styles:
+        full = Image.open(f'img/kit/back-hair-{st}.webp').convert('RGBA')
+        layer = Image.new('RGBA', (W, H), (0, 0, 0, 0))
+        for k, tf in enumerate(back['frames']):
+            sc, ox, oy = ALIGN[k]
+            part = full.crop((tf[0], tf[1], tf[0] + tf[2], tf[1] + tf[3]))
+            part = part.resize((max(1, round(part.width * sc)), max(1, round(part.height * sc))), Image.LANCZOS)
+            tmp = Image.new('RGBA', (cw[k], ch[k]), (0, 0, 0, 0))
+            tmp.alpha_composite(part, (PAD_S + ox, PAD_T + oy)) if (PAD_S + ox >= 0 and PAD_T + oy >= 0) else tmp.paste(part, (PAD_S + ox, PAD_T + oy))
+            layer.alpha_composite(tmp, (offs[k], 0))
+        layer.save(f'{OUT}-hair-{st}.webp', 'WEBP', quality=90, method=6)
+    stand = int(np.nonzero(np.array(cells[0])[..., 3] > 128)[0].max() - np.nonzero(np.array(cells[0])[..., 3] > 128)[0].min() + 1)
+    skin_ref = float(np.median(np.concatenate(skin_lums)) / 255)
+    sheets['royals-back'] = {'frames': frames, 'place': place, 'refPx': stand, 'suit': [0, 0, 0], 'trim': [0, 0, 0], 'skin': round(skin_ref, 4), 'hair': back['hair'], 'size': [W, H]}
     sys.path.insert(0, os.path.dirname(__file__))
     from build_kit_sheets import write_sheets  # noqa: E402
     write_sheets(sheets)
-    print('royals-back', (W, H), 'poses', len(frames), 'standing', stand, 'skin', round(skin_ref, 3))
+    print('royals-back', (W, H), 'poses', len(frames), 'standing', stand, 'skin', round(skin_ref, 3), 'hairstyles', len(styles))
 
 
 if __name__ == '__main__':
